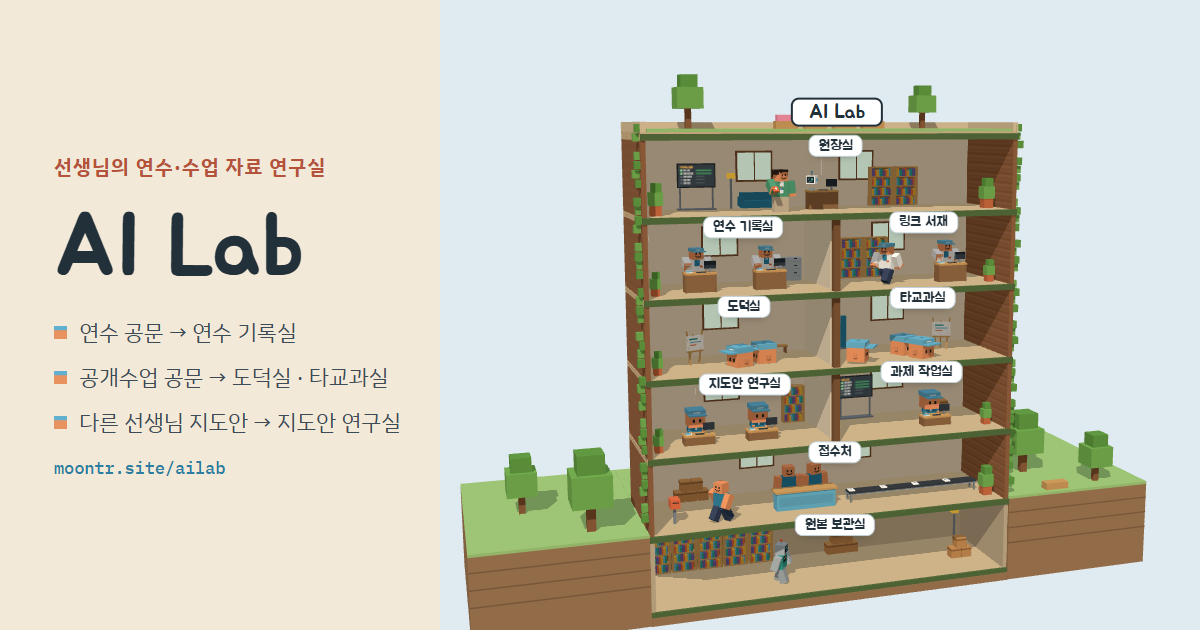
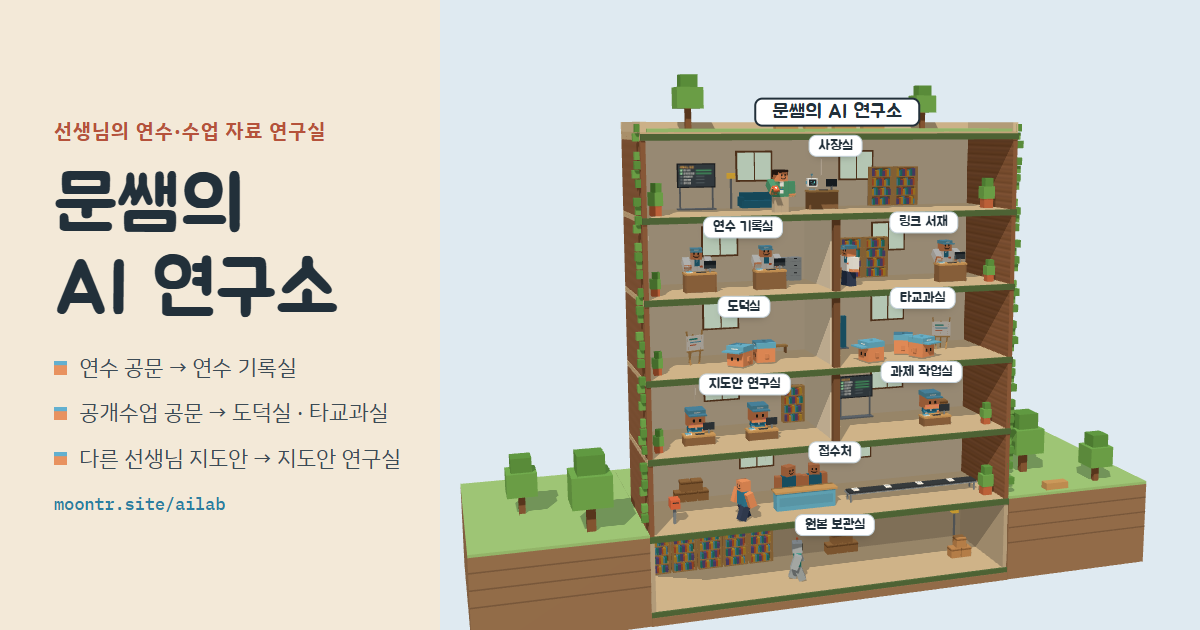
AI Lab → '문쌤의 AI 연구소', 원장실 → 사장실
- 화면 이름(머리줄 · 탭 제목 · 3D 옥상 간판 · 링크 미리보기)을 '문쌤의 AI 연구소'로. 주소는 그대로 /ailab
- 5층 원장실 → 사장실, 원장님 → 사장님 (나 시안 '타이쿤 사장님', 친구 설명 등)
- og.png 를 새 이름 · 사장실로 다시 찍음, 함수 쪽 rooms.js 사본도 맞춤

diff --git a/ailab/building3d.js b/ailab/building3d.js
@@ -1,9 +1,9 @@
 // AI Lab 첫 화면 — three.js 복셀 3D 건물 (화면보호기처럼 화면 가득)
 // index.html 의 #b3d 안 요소(무대 · 단추 · 서랍)를 찾아 그려요. app.js 가 이 파일을 불러오고 아래 export 로 이어져요.
 //   onRoom(k)      : 서랍이 닫혀 있을 때 방을 누르면 → 앱이 그 방 화면으로
-//   onChange(state): 직원 배치 · 원장실 · 건물 시안이 바뀌면 → 앱이 Firebase 에 저장
+//   onChange(state): 직원 배치 · 사장실 · 건물 시안이 바뀌면 → 앱이 Firebase 에 저장
 import * as THREE from 'https://cdn.jsdelivr.net/npm/three@0.160.0/build/three.module.js';
-import { ROOMS as APP_ROOMS, FLOORS } from './rooms.js';
+import { APP_NAME, ROOMS as APP_ROOMS, FLOORS } from './rooms.js';
 
 // ---------- 층과 방 (rooms.js) + 그 방 직원이 하는 일 (마우스를 올리면 보여요) ----------
 const JOBS = {
@@ -248,7 +248,7 @@ const hairTop = (c = HAIR, extra = []) => [
   { x: -3.1, y: -8.3, w: .5, h: 1.6, d: 5, c }, { x: 3.1, y: -8.3, w: .5, h: 1.6, d: 5, c }, ...extra,
 ];
 const face = (c = HAIR) => [[0, 0, 6, .7, c], [0, .7, 1.8, .5, c], ...smile];
-// 원장님 여자 모습: 어깨까지 오는 긴 머리, 양쪽으로 나눈 앞머리, 빨간 머리핀
+// 사장님 여자 모습: 어깨까지 오는 긴 머리, 양쪽으로 나눈 앞머리, 빨간 머리핀
 const hairLong = (c = HAIR, extra = []) => [
   { y: -9.55, w: 6.3, h: 1.1, d: 5.9, c }, { y: -6.5, z: -2.75, w: 6.5, h: 6.8, d: .9, c },
   { x: -3.15, y: -7.1, w: .6, h: 4.6, d: 5.2, c }, { x: 3.15, y: -7.1, w: .6, h: 4.6, d: 5.2, c },
@@ -272,7 +272,7 @@ const ME = [
     hat: [{ y: -10, w: 6.9, h: .5, d: 1, c: P.belt }, { x: -3.35, y: -7.2, w: .8, h: 1.9, d: 1.9, c: P.belt }, { x: 3.35, y: -7.2, w: .8, h: 1.9, d: 1.9, c: P.belt }, { x: 3.1, y: -6, z: 1.8, w: .3, h: .3, d: 2.4, c: P.belt }],
     itemR: [{ x: 5.85, y: 4.5, z: 2.9, w: 4.6, h: .4, d: 3.2, c: P.steel }, { x: 5.85, y: 2.7, z: 1.4, w: 4.6, h: 3.2, d: .3, c: P.steel, front: [[2, 1.2, .7, .7, P.white]] }],
   }) },
-  { id: 3, name: '타이쿤 원장님', hold: 'R', note: '정장, 금색 넥타이와 원장 배지, 커피 머그', def: () => meDef({
+  { id: 3, name: '타이쿤 사장님', hold: 'R', note: '정장, 금색 넥타이와 사장 배지, 커피 머그', def: () => meDef({
     torso: '#2f3e5c', arm: '#2f3e5c', leg: '#26324a',
     torsoFront: [[2.8, 0, 2.4, 3, P.white], [3.6, .4, .8, 3.8, P.gold], [.9, 1.2, 1.1, .7, P.gold]],
     itemR: [{ x: 5.85, y: 4.9, z: 2.5, w: 1.9, h: 2.1, d: 1.9, c: P.paper, front: [[.4, .8, 1.1, .4, P.red]] }, { x: 7.05, y: 4.9, z: 2.5, w: .5, h: 1.2, d: .4, c: P.paper }],
@@ -384,10 +384,10 @@ const STAFF_ABOUT = {
   10: '의욕이 넘치는 공룡 인턴이에요. 꼬리로 박자를 맞추며 일해요.',
 };
 const FRIEND_ABOUT = {
-  1: ['원장님 어깨 옆에 둥둥 떠 있는 화면 얼굴 로봇이에요.', '다가오는 일정과 할 일을 먼저 알려 줘요.'],
-  2: ['꼬리를 흔들며 원장님을 졸졸 따라다녀요.', '오래 앉아 있으면 쉬었다 하자고 졸라요.'],
+  1: ['사장님 어깨 옆에 둥둥 떠 있는 화면 얼굴 로봇이에요.', '다가오는 일정과 할 일을 먼저 알려 줘요.'],
+  2: ['꼬리를 흔들며 사장님을 졸졸 따라다녀요.', '오래 앉아 있으면 쉬었다 하자고 졸라요.'],
   3: ['책 더미 위에서 해바라기씨를 오물오물 먹어요.', '흩어진 메모를 볼에 모아 와요.'],
-  4: ['웃는 얼굴의 화분이에요.', '원장실 공기를 맑게 하고 기분을 북돋아요.'],
+  4: ['웃는 얼굴의 화분이에요.', '사장실 공기를 맑게 하고 기분을 북돋아요.'],
   5: ['프로펠러 네 개로 떠다니는 작은 드론이에요.', '층마다 날아가 무슨 일이 있는지 살펴봐요.'],
   6: ['귀가 쫑긋한 하얀 토끼예요.', '새 소식이 오면 깡총 뛰어 알려요.'],
   7: ['김이 모락모락 나는 머그잔이에요.', '바쁜 날 따뜻한 커피로 응원해요.'],
@@ -400,8 +400,8 @@ const staffInfo = (id, room) => {
   const s = staffById(id);
   return { title: s.name, sub: room ? `${ROOMS[room].name} 직원` : (where(id).join(' · ') || '아직 배치 전'), text: STAFF_ABOUT[id], job: room ? ROOMS[room].job : '' };
 };
-const friendInfo = (id) => ({ title: friendById(id).name, sub: '원장님 옆 친구', text: FRIEND_ABOUT[id][0], job: FRIEND_ABOUT[id][1] });
-const meInfo = () => { const m = ME.find((x) => x.id === STATE.me) || ME[0]; return { title: `원장님 · ${m.name}`, sub: '5F 원장실', text: `${m.note}.`, job: ME_JOB }; };
+const friendInfo = (id) => ({ title: friendById(id).name, sub: '사장님 옆 친구', text: FRIEND_ABOUT[id][0], job: FRIEND_ABOUT[id][1] });
+const meInfo = () => { const m = ME.find((x) => x.id === STATE.me) || ME[0]; return { title: `사장님 · ${m.name}`, sub: '5F 사장실', text: `${m.note}.`, job: ME_JOB }; };
 const tipEl = document.getElementById('tip');
 function showTip(info, x, y) {
   tipEl.innerHTML = `<b>${info.title}</b>${info.sub ? `<i>${info.sub}</i>` : ''}<p>${info.text}</p>${info.job ? `<p class="job"><span>하는 일</span>${info.job}</p>` : ''}`;
@@ -941,7 +941,7 @@ function buildWorld() {
   roofExtras(roofY);
   const roof = document.createElement('span');
   roof.className = 'roofsign';
-  roof.textContent = 'AI Lab';
+  roof.textContent = APP_NAME;
   labelsEl.append(roof);
   labelItems.push({ el: roof, pos: new THREE.Vector3(0, roofY + 1.1, D / 2) });
 

diff --git a/ailab/index.html b/ailab/index.html
@@ -3,11 +3,11 @@
 <head>
   <meta charset="utf-8">
   <meta name="viewport" content="width=device-width, initial-scale=1, viewport-fit=cover">
-  <title>AI Lab</title>
+  <title>문쌤의 AI 연구소</title>
   <meta name="description" content="연수 공문, 수업 공개 공문, 다른 선생님 지도안 캡쳐를 AI 직원들이 읽고 층마다 정리해 주는 선생님의 자료 연구실">
   <!-- 링크 미리보기 (카톡 · 밴드 등) -->
   <meta property="og:type" content="website">
-  <meta property="og:title" content="AI Lab">
+  <meta property="og:title" content="문쌤의 AI 연구소">
   <meta property="og:description" content="캡쳐 한 장이면 AI 직원들이 연수 · 수업 공개 · 지도안을 층마다 정리해요">
   <meta property="og:url" content="https://moontr.site/ailab/">
   <meta property="og:image" content="https://moontr.site/ailab/og.png">
@@ -25,7 +25,7 @@
 </head>
 <body class="guest">
   <header class="top">
-    <a class="brand" href="#"><span class="bot boss" aria-hidden="true"></span><span class="app-name">AI Lab</span></a>
+    <a class="brand" href="#"><span class="bot boss" aria-hidden="true"></span><span class="app-name">문쌤의 AI 연구소</span></a>
     <label class="search teacher-only"><span class="sr">자료 찾기</span><input id="search" type="search" placeholder="자료 찾기 (제목, 장소, 교과…)" autocomplete="off"></label>
     <button class="btn primary teacher-only" data-act="upload">사진 넣기</button>
     <button class="btn ghost" id="authBtn" data-act="login">선생님 로그인</button>
@@ -45,7 +45,7 @@
       <button type="button" id="thNext" aria-label="다음 건물 시안">▶</button>
     </div>
     <span class="hud hint">방을 누르면 들어가요 · 끌어서 돌리기 · 캐릭터에 마우스를 올려 보세요</span>
-    <aside id="drawer" aria-label="안내 · 직원 배치 · 원장실">
+    <aside id="drawer" aria-label="안내 · 직원 배치 · 사장실">
       <div class="head">
         <h2>메뉴</h2>
         <div class="row">
@@ -61,10 +61,10 @@
         <div class="gallery" id="staff"></div>
       </section>
       <section class="panel">
-        <h2>5층 원장실 · 나와 친구</h2>
-        <h3>나 (원장님)</h3>
+        <h2>5층 사장실 · 나와 친구</h2>
+        <h3>나 (사장님)</h3>
         <div class="me-row">
-          <div class="seg" id="genderPick" role="group" aria-label="원장님 모습">
+          <div class="seg" id="genderPick" role="group" aria-label="사장님 모습">
             <button type="button" data-g="f" aria-pressed="false">여자</button>
             <button type="button" data-g="m" aria-pressed="false">남자</button>
           </div>

diff --git a/ailab/app.js b/ailab/app.js
@@ -116,7 +116,7 @@ async function start() {
   }).catch(() => { B3 = false; render(); });
 }
 
-// 직원 배치 · 원장실 · 건물 시안: 로그인한 선생님이면 Firebase 에 저장 (어느 기기에서든 같게)
+// 직원 배치 · 사장실 · 건물 시안: 로그인한 선생님이면 Firebase 에 저장 (어느 기기에서든 같게)
 let buildingT = null;
 function saveBuilding(state) {
   if (!S.teacher) return;
@@ -268,7 +268,7 @@ function homeSide() {
       </ul>
       <small>캡쳐를 화면 어디에든 끌어다 놓거나 Ctrl+V로 붙여 넣어도 바로 들어가요.</small>
     </section>
-    <section class="panel"><h3>5F 원장실 · 다가오는 일정</h3>${bossView(true)}</section>`;
+    <section class="panel"><h3>5F 사장실 · 다가오는 일정</h3>${bossView(true)}</section>`;
 }
 
 // --- 로그인 전: 건물 안내만 ---
@@ -504,7 +504,7 @@ function taskPanel() {
   </section>`;
 }
 
-// --- 5F 원장실 ---
+// --- 5F 사장실 ---
 function upcoming() {
   const t = todayStr();
   const list = S.cards.filter((c) => !isUnsorted(c) && isDate(c.date) && (c.end_date || c.date) >= t);

diff --git a/ailab/rooms.js b/ailab/rooms.js
@@ -12,10 +12,11 @@
 //   lesson — 날짜순 수업 목록 (수업 공개)
 //   plan   — 수업 흐름 카드, 활동 방식별 묶음 (지도안)
 
-export const APP_NAME = 'AI Lab';
+// 화면에 보이는 이름 (주소는 그대로 moontr.site/ailab)
+export const APP_NAME = '문쌤의 AI 연구소';
 
 export const ROOMS = {
-  boss: { name: '원장실', role: '비서', system: true },
+  boss: { name: '사장실', role: '비서', system: true },
 
   train: {
     name: '연수 기록실', role: '기록 담당', ai: true, view: 'event',
@@ -53,7 +54,7 @@ export const ROOMS = {
 };
 
 export const FLOORS = [
-  { floor: '5F', name: '원장실', rooms: ['boss'] },
+  { floor: '5F', name: '사장실', rooms: ['boss'] },
   { floor: '4F', name: '연수 층', rooms: ['train', 'links'] },
   { floor: '3F', name: '수업 공개 층', rooms: ['moral', 'others'] },
   { floor: '2F', name: '연구 층', rooms: ['plans', 'task'] },

diff --git a/firebase/functions/rooms.js b/firebase/functions/rooms.js
@@ -12,10 +12,11 @@
 //   lesson — 날짜순 수업 목록 (수업 공개)
 //   plan   — 수업 흐름 카드, 활동 방식별 묶음 (지도안)
 
-export const APP_NAME = 'AI Lab';
+// 화면에 보이는 이름 (주소는 그대로 moontr.site/ailab)
+export const APP_NAME = '문쌤의 AI 연구소';
 
 export const ROOMS = {
-  boss: { name: '원장실', role: '비서', system: true },
+  boss: { name: '사장실', role: '비서', system: true },
 
   train: {
     name: '연수 기록실', role: '기록 담당', ai: true, view: 'event',
@@ -53,7 +54,7 @@ export const ROOMS = {
 };
 
 export const FLOORS = [
-  { floor: '5F', name: '원장실', rooms: ['boss'] },
+  { floor: '5F', name: '사장실', rooms: ['boss'] },
   { floor: '4F', name: '연수 층', rooms: ['train', 'links'] },
   { floor: '3F', name: '수업 공개 층', rooms: ['moral', 'others'] },
   { floor: '2F', name: '연구 층', rooms: ['plans', 'task'] },
